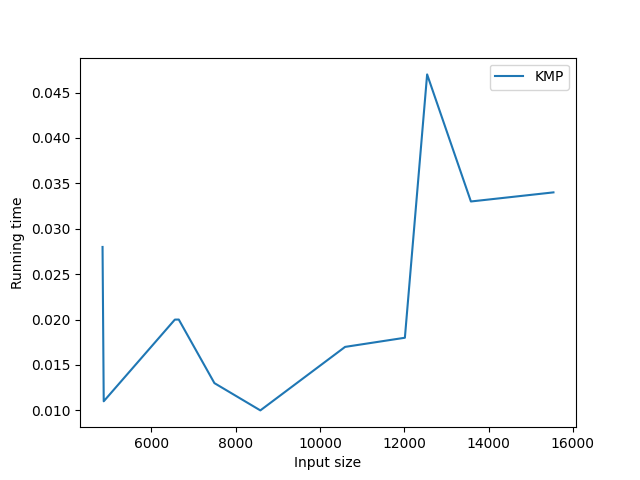
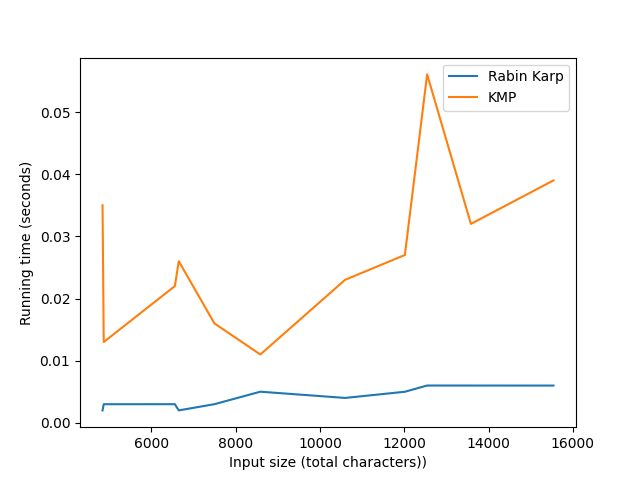
new main with rabin karp

diff --git a/main.py b/main.py
@@ -1,25 +1,23 @@
-import sys
 import glob
 import matplotlib.pyplot as plt
 from natsort import natsorted, ns
 from time import time
-from Algorithms import kmp, dynamic_lcss, naive_lcss
-
-sys.setrecursionlimit(15000)
+from Algorithms import kmp, dynamic_lcss, naive_lcss, rabin_karp
 
 kmp_times = []
 naive_lcss_times = []
 dynamic_lcss_times = []
+rabin_karp_times = []
 
 src_dataset = natsorted(
-    glob.glob("Data\external-detection-corpus\source-documents\*.txt"), alg=ns.IGNORECASE)
+    glob.glob("Data\sources\*.txt"), alg=ns.IGNORECASE)
 
 sus_dataset = natsorted(
-    glob.glob("Data\external-detection-corpus\suspicious-documents\*.txt"), alg=ns.IGNORECASE)
+    glob.glob("Data\sus\*.txt"), alg=ns.IGNORECASE)
 
 
 def testAlgorithm(myFunction, time_array: list, algoName: str):
-    for i in range(10):
+    for i in range(len(src_dataset)):
         src_file = src_dataset[i]
         sus_file = sus_dataset[i]
 
@@ -27,7 +25,7 @@ def testAlgorithm(myFunction, time_array: list, algoName: str):
         input_size = len(open(src_file, encoding="utf-8").read()) + \
             len(open(sus_file, encoding="utf-8").read())
 
-        print("Running " + algoName + " on documents number " + str(i+1))
+        print("Running " + algoName + " on documents number " + str(i+1) + "\n")
         # Run algorithm and measure running time
         t0 = time()
         myFunction(src_file, sus_file)
@@ -43,14 +41,15 @@ def testAlgorithm(myFunction, time_array: list, algoName: str):
     input_sizes = [x[1] for x in time_array]
 
     plt.plot(input_sizes, running_times, label=algoName)
-    plt.xlabel("Input size")
-    plt.ylabel("Running time")
+    plt.xlabel("Input size (total characters))")
+    plt.ylabel("Running time (seconds)")
     plt.legend()
     plt.savefig("Plots/" + algoName + ".png")
 
 
-# TODO: Add new algorithm and add comparison functions
+# TODO: Add comparison functions
 
+testAlgorithm(rabin_karp.runRabinKarp, rabin_karp_times, "Rabin Karp")
 testAlgorithm(kmp.runKMP, kmp_times, "KMP")
-testAlgorithm(naive_lcss.runLCSS_naive, naive_lcss_times, "Naive LCSS")
 testAlgorithm(dynamic_lcss.runLCSS_dynamic, dynamic_lcss_times, "Dynamic LCSS")
+testAlgorithm(naive_lcss.runLCSS_naive, naive_lcss_times, "Naive LCSS")

diff --git a/Algorithms/rabin_karp.py b/Algorithms/rabin_karp.py
@@ -1,10 +1,8 @@
 # Rabin Karp Algorithm, as seen in CLRS book
 # d is the number of characters in the input alphabet
-d = 256
-
-
-from time import time
 import sys
+from time import time
+d = 256
 
 
 def search(pat, text, q):
@@ -41,12 +39,12 @@ def search(pat, text, q):
             if t < 0:
                 t = t + q
 
-    # Driver Code
+# Driver Code
 
 
-if __name__ == "__main__":
-    src = open("Data/external-detection-corpus/source-documents/source-document00001.txt", encoding="utf-8")
-    sus = open("Data/external-detection-corpus/suspicious-documents/suspicious-document00001.txt", encoding="utf-8")
+def runRabinKarp(src_file: str, sus_file: str):
+    src = open(src_file, encoding="utf-8")
+    sus = open(sus_file, encoding="utf-8")
 
     txt = src.read().lower()
     pat = sus.read().lower()
@@ -58,8 +56,8 @@ if __name__ == "__main__":
     q = 101
 
     # Function Call
-    t0 = time()
+    # t0 = time()
     search(pat, txt, q)
-    t1 = time()
+    # t1 = time()
 
-    print(f"Ran Rabin-Karp in {t1-t0} seconds")
+    # print(f"Ran Rabin-Karp in {t1-t0} seconds")
